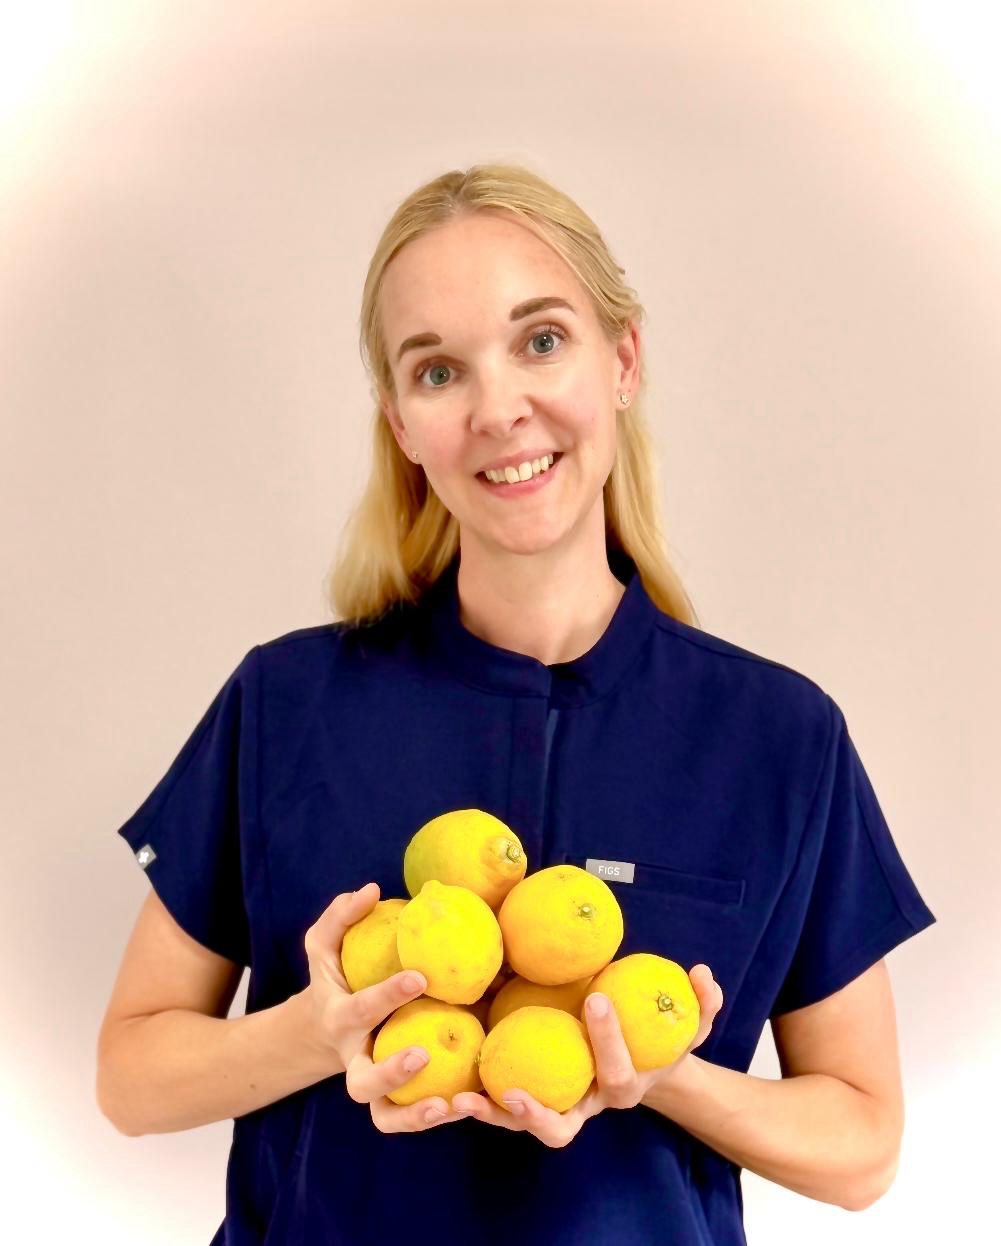
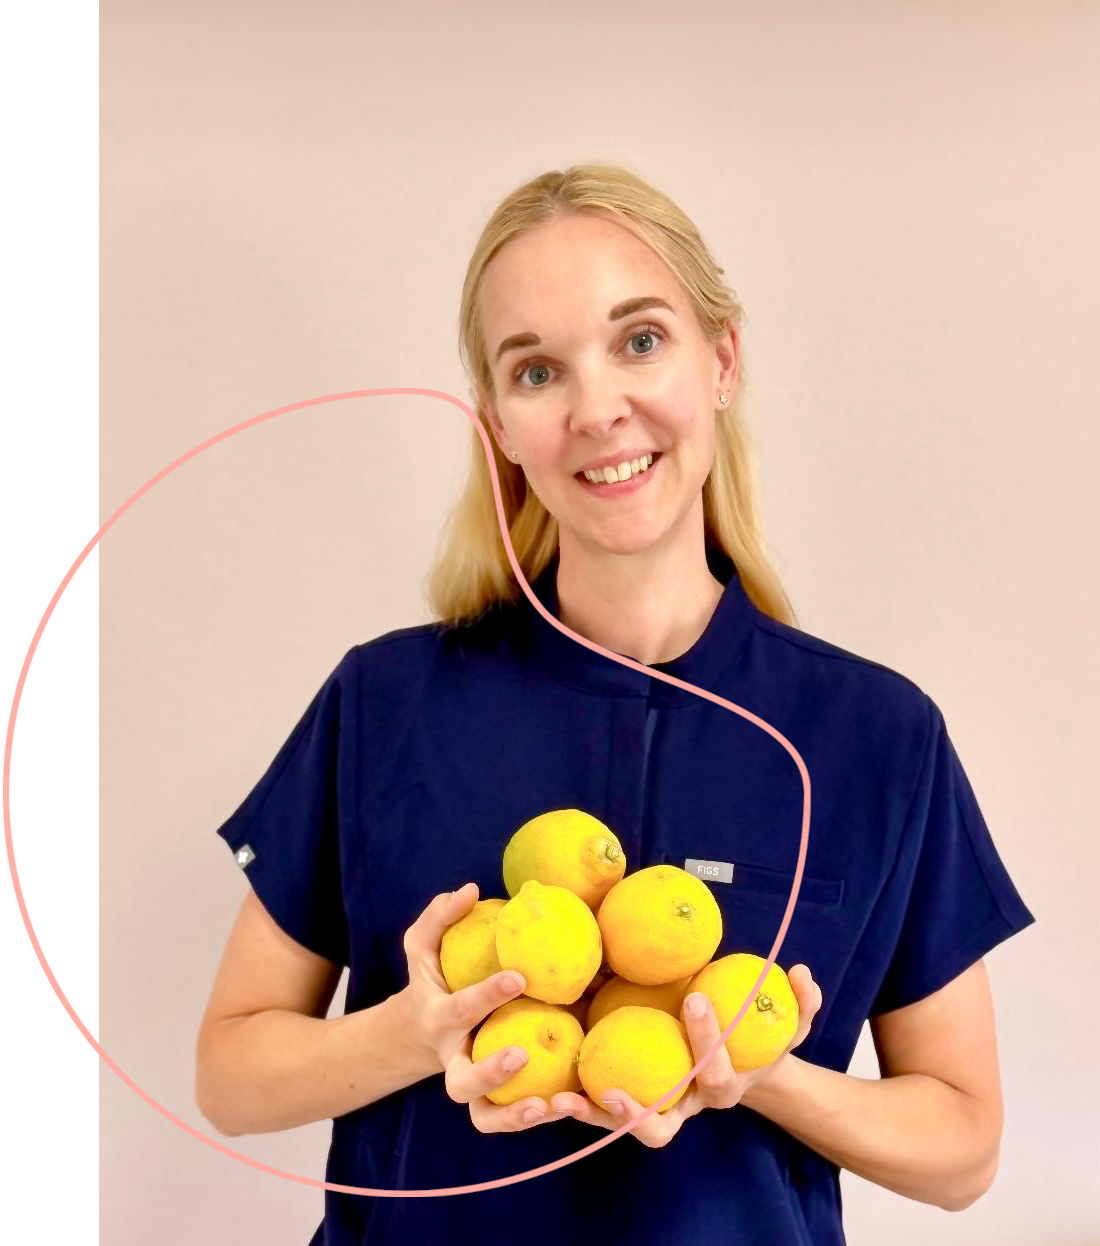
Optimize service buttons: center positioning, wider padding, and improved text

diff --git a/src/components/Services.tsx b/src/components/Services.tsx
@@ -27,15 +27,23 @@ export default function Services() {
                   />
                 </div>
               </Link>
-              <div className="service-card bg-new-cream p-8 pt-12 rounded-3xl text-center h-full flex flex-col">{}
+              <div className="service-card bg-new-cream p-8 pt-12 rounded-3xl text-center h-full flex flex-col">
                 <h3 className="text-2xl font-medium text-burgundy mb-2">Health Check</h3>
                 <p className="text-sm text-burgundy uppercase tracking-wider mb-4">
                   GANZHEITLICHE ANALYSE<br />
                   FÜR EINEN KLAREN ÜBERBLICK
                 </p>
-                <p className="body-text flex-1">
+                <p className="body-text flex-1 mb-6">
                   Mit moderner Diagnostik (BIA, EKG, HRV), einer ausführlichen Anamnese und einer umfangreichen Vitalparameter-Analyse entsteht ein persönliches Gesundheitsprofil.So können mögliche Risiken frühzeitig sichtbar werden und es entsteht eine fundierte Grundlage für ein individuelles Therapiekonzept.
                 </p>
+                <div className="text-center">
+                  <Link 
+                    href="/leistungen/health-check" 
+                    className="inline-block bg-burgundy text-white px-12 py-3 rounded-full font-medium hover:bg-opacity-90 transition-all duration-300"
+                  >
+                    Mehr Informationen
+                  </Link>
+                </div>
               </div>
             </div>
           </FadeIn>
@@ -54,16 +62,24 @@ export default function Services() {
                   />
                 </div>
               </Link>
-              <div className="service-card bg-new-cream p-8 pt-12 rounded-3xl text-center h-full flex flex-col">{}
+              <div className="service-card bg-new-cream p-8 pt-12 rounded-3xl text-center h-full flex flex-col">
                 <h3 className="text-2xl font-medium text-burgundy mb-2">Labordiagnostik</h3>
                 <p className="text-sm text-burgundy uppercase tracking-wider mb-4">
                   FUNDIERTE WERTE.<br />
                   KLARE ENTSCHEIDUNGEN.
                 </p>
-                <p className="body-text flex-1">
+                <p className="body-text flex-1 mb-6">
                   Ob umfassendes Profil oder gezielte Nährstoffanalysen: Ihre Laborwerte liefern wichtige Hinweise für eine individuelle Einschätzung und können als Grundlage für eine passende Betreuung dienen.
                 Durch die Auswahl spezifischer Parameter können Zusammenhänge sichtbar werden und individuelle Schwerpunkte berücksichtigt werden.  
                 </p>
+                <div className="text-center">
+                  <Link 
+                    href="/leistungen/labordiagnostik" 
+                    className="inline-block bg-burgundy text-white px-12 py-3 rounded-full font-medium hover:bg-opacity-90 transition-all duration-300"
+                  >
+                    Mehr Informationen
+                  </Link>
+                </div>
               </div>
             </div>
           </FadeIn>
@@ -82,17 +98,25 @@ export default function Services() {
                   />
                 </div>
               </Link>
-              <div className="service-card bg-new-cream p-8 pt-12 rounded-3xl text-center h-full flex flex-col">{}
+              <div className="service-card bg-new-cream p-8 pt-12 rounded-3xl text-center h-full flex flex-col">
                 <h3 className="text-2xl font-medium text-burgundy mb-2">Nährstofftherapie</h3>
                 <p className="text-sm text-burgundy uppercase tracking-wider mb-4">
                   GEZIELTE ENERGIE<br />
                   VON INNEN.
                 </p>
-                <p className="body-text flex-1">
+                <p className="body-text flex-1 mb-6">
                   Individuelle Nährstoffkonzepte auf Basis von Laborwerten und Ihren persönlichen Bedürfnissen.
                 Die Therapie kann dabei unterstützen, fehlende Reserven auszugleichen und das innere Gleichgewicht zu fördern.
                 Sie kann zudem einen positiven Einfluss auf Energie, Immunsystem und Regeneration haben.
                 </p>
+                <div className="text-center">
+                  <Link 
+                    href="/leistungen/naehrstofftherapie" 
+                    className="inline-block bg-burgundy text-white px-12 py-3 rounded-full font-medium hover:bg-opacity-90 transition-all duration-300"
+                  >
+                    Mehr Informationen
+                  </Link>
+                </div>
               </div>
             </div>
           </FadeIn>
@@ -111,16 +135,24 @@ export default function Services() {
                   />
                 </div>
               </Link>
-              <div className="service-card bg-new-cream p-8 pt-12 rounded-3xl text-center h-full flex flex-col">{}
+              <div className="service-card bg-new-cream p-8 pt-12 rounded-3xl text-center h-full flex flex-col">
                 <h3 className="text-2xl font-medium text-burgundy mb-2">Craniosakrale Osteopathie</h3>
                 <p className="text-sm text-burgundy uppercase tracking-wider mb-4">
                   BLOCKADEN LÖSEN.<br />
                   BALANCE FINDEN.
                 </p>
-                <p className="body-text flex-1">
+                <p className="body-text flex-1 mb-6">
                   Sanfte manuelle Techniken können dazu beitragen, Beweglichkeit zu unterstützen und das innere Gleichgewicht zu fördern.
                 Sie können hilfreich sein, um Funktionsstörungen positiv zu beeinflussen, Schmerzen zu lindern und die natürlichen Regenerationsprozesse des Körpers zu unterstützen.
                 </p>
+                <div className="text-center">
+                  <Link 
+                    href="/leistungen/craniosacrale-osteopathie" 
+                    className="inline-block bg-burgundy text-white px-12 py-3 rounded-full font-medium hover:bg-opacity-90 transition-all duration-300"
+                  >
+                    Mehr Informationen
+                  </Link>
+                </div>
               </div>
             </div>
           </FadeIn>

diff --git a/src/components/ServiceBenefits.tsx b/src/components/ServiceBenefits.tsx
@@ -18,7 +18,7 @@ export default function ServiceBenefits({ benefits, heroImage, title, benefitsIn
         {/* Mobile Layout (bis sm) - Bild direkt über Rosa ohne Padding, eckig */}
         <div className="sm:hidden">
           {/* Mobile Image - eckig, ohne Padding, volle Breite */}
-          <div className="bg-white">
+          <div className="bg-white relative">
             <div className="relative w-full aspect-[4/3]">
               <Image
                 src={heroImage}
@@ -27,6 +27,15 @@ export default function ServiceBenefits({ benefits, heroImage, title, benefitsIn
                 className="object-cover"
                 sizes="100vw"
               />
+              {/* Linie Overlay für Mobile */}
+              <div className="absolute -bottom-3 -left-3 z-10" style={{ width: '100%', height: '100%' }}>
+                <Image
+                  src="/linie_oben.webp"
+                  alt="Dekorative Linie"
+                  fill
+                  className="object-contain object-bottom-left"
+                />
+              </div>
             </div>
           </div>
           
@@ -55,7 +64,7 @@ export default function ServiceBenefits({ benefits, heroImage, title, benefitsIn
         {/* Tablet Layout (sm bis xl) - Wie Mobile: Bild über Text, volle Breite */}
         <div className="hidden sm:block xl:hidden">
           {/* Image - eckig, ohne Padding, volle Breite */}
-          <div className="bg-white">
+          <div className="bg-white relative">
             <div className="relative w-full aspect-[4/3]">
               <Image
                 src={heroImage}
@@ -64,6 +73,15 @@ export default function ServiceBenefits({ benefits, heroImage, title, benefitsIn
                 className="object-cover"
                 sizes="100vw"
               />
+              {/* Linie Overlay für Tablet */}
+              <div className="absolute -bottom-3 -left-3 z-10" style={{ width: '100%', height: '100%' }}>
+                <Image
+                  src="/linie_oben.webp"
+                  alt="Dekorative Linie"
+                  fill
+                  className="object-contain object-bottom-left"
+                />
+              </div>
             </div>
           </div>
           
@@ -103,6 +121,15 @@ export default function ServiceBenefits({ benefits, heroImage, title, benefitsIn
                   className="object-cover rounded-3xl shadow-lg"
                   sizes="50vw"
                 />
+                {/* Linie Overlay für Desktop */}
+                <div className="absolute -bottom-8 -left-10 z-40" style={{ width: '100%', height: '100%' }}>
+                  <Image
+                    src="/linie_oben.webp"
+                    alt="Dekorative Linie"
+                    fill
+                    className="object-contain object-bottom-left"
+                  />
+                </div>
               </div>
             </div>
           </div>
@@ -132,8 +159,8 @@ export default function ServiceBenefits({ benefits, heroImage, title, benefitsIn
         </div>
       </div>
       
-      {/* Bottom narrow row - cream background */}
-      <div className="bg-cream h-16 md:h-20"></div>
+      {/* Bottom narrow row - white background */}
+      <div className="bg-white h-16 md:h-20"></div>
     </section>
   );
 }

diff --git a/src/components/TreatmentSteps.tsx b/src/components/TreatmentSteps.tsx
@@ -3,7 +3,6 @@ import Image from 'next/image';
 interface TreatmentStep {
   title: string;
   description: string;
-  color: 'burgundy' | 'coral';
 }
 
 interface TreatmentStepsProps {

diff --git a/content/services/health-check.md b/content/services/health-check.md
@@ -1,31 +1,26 @@
 ---
 title: "Health Check"
-subtitle: "Ganzheitliche Analyse für einen klaren Überblick über Ihren Gesundheitszustand.<br>Mit moderner Diagnostik (BIA, EKG, HRV) und ausführlicher Anamnese<br>entwickeln wir gemeinsam die Grundlage für Ihr individuelles Therapiekonzept."
+subtitle: "Ganzheitliche Analyse für einen klaren Überblick.<br>MDer Health Check bietet die Möglichkeit, Ihre Gesundheit umfassend und präzise zu betrachten. Ziel ist es, mögliche Risikofaktoren frühzeitig zu erkennen, Ihre individuellen Stärken sichtbar zu machen und konkrete Ansätze für eine nachhaltige Gesundheitsförderung zu entwickeln.<br>Dabei fließt die Sichtweise der funktionellen Medizin mit ein: Nicht einzelne Werte stehen im Vordergrund, sondern das Erkennen von Zusammenhängen und Wechselwirkungen im gesamten Organismus.<br>So entsteht ein differenzierter Überblick über Ihre aktuelle gesundheitliche Situation, auf dessen Basis gezielt Maßnahmen eingeleitet werden können."
 heroImage: "/service_healthcheck.png"
-benefitsIntro: "Ein umfassender Health Check gibt Ihnen einen klaren Überblick über Ihren aktuellen Gesundheitszustand und bildet die Grundlage für ein individuelles Therapiekonzept."
+benefitsIntro: "Ein Health Check schafft Klarheit, Orientierung und eine fundierte Grundlage für bewusste Entscheidungen rund um Ihre Gesundheit."
 benefits:
-  - "Moderne Diagnostik mit BIA, EKG und HRV-Messung"
-  - "Ausführliche Anamnese und Vitalparameter-Analyse"
-  - "Persönliches Gesundheitsprofil als Grundlage"
-  - "Frühzeitige Erkennung möglicher Risiken"
-  - "Fundierte Basis für individuelles Therapiekonzept"
-  - "Ganzheitliche Betrachtung Ihrer Gesundheit"
+  - "Prävention: frühzeitiges Erkennen von Risikofaktoren"
+  - "Begleitung bei chronischen Belastungen"
+  - "Optimierung von Leistungsfähigkeit und Regeneration"
+  - "Erkennen von Stressbelastungen und ihren Auswirkungen auf den Körper"
+  - "Orientierungshilfe bei unspezifischen Beschwerden"
+  - "Gesundheitsbewertung im Rahmen von Vorsorge und Longevity"
 treatmentSteps:
   - title: "Ausführliche Anamnese"
-    description: "Wir besprechen Ihre Krankengeschichte, aktuelle Beschwerden und Ihre individuellen Gesundheitsziele."
-    color: "burgundy"
-  - title: "Moderne Diagnostik"
-    description: "BIA-Messung für Körperzusammensetzung, EKG und HRV-Analyse für Herzgesundheit und Stressresilienz."
-    color: "coral"
-  - title: "Vitalparameter-Check"
-    description: "Umfassende Messung wichtiger Gesundheitsparameter für ein vollständiges Bild."
-    color: "burgundy"
-  - title: "Persönliches Profil"
-    description: "Auswertung aller Ergebnisse und Erstellung Ihres individuellen Gesundheitsprofils."
-    color: "coral"
-  - title: "Therapieplanung"
-    description: "Entwicklung eines maßgeschneiderten Therapiekonzepts basierend auf Ihren Ergebnissen."
-    color: "burgundy"
+    description: "Im persönlichen Gespräch erfasse ich Ihre medizinische Vorgeschichte, aktuelle Beschwerden, Lebensstil und individuelle Risikofaktoren. Dies bildet die Grundlage für die weiteren Untersuchungen."
+  - title: "Vitalparameteranalyse & BIA-Messung"
+    description: "Es werden grundlegende Körperwerte wie z.B. Blutdruck, Puls und Sauerstoffsättigung erhoben. Die Bioimpedanzanalyse (BIA) liefert zusätzliche Informationen zu Körperzusammensetzung, Muskel- und Fettanteilen sowie zum Wasserhaushalt."
+  - title: "EKG & HRV-Messung"
+    description: "Ein Ruhe-EKG zeigt die Herzaktivität, während die Herzratenvariabilität (HRV) Rückschlüsse auf die Balance von Belastung und Erholung gibt. So werden Herz-Kreislauf- und Stressregulation sichtbar."
+  - title: "Labordiagnostik"
+    description: "Direkt vor Ort werden Blut- und Urinuntersuchungen durchgeführt: HbA1c (Langzeitzucker), Blutzucker (BZ), Lipidprofil ( Fette) und CRP (Entzündungsmarker). Die Analysen bieten einen differenzierten Einblick in Stoffwechsel, Herz-Kreislauf-System und Entzündungsaktivität."
+  - title: "Abschlussgespräch & persönliches Gesundheitsprofi   "
+    description: "Zum Abschluss werden alle Ergebnisse in Ruhe besprochen. Sie erhalten ein individuelles Gesundheitsprofil mit Empfehlungen, das als Grundlage für Prävention, Therapie oder Lifestyle-Anpassungen dient."
 seo:
   title: "Health Check - Ganzheitliche Gesundheitsanalyse | Praxis Alexandra Buchmann"
   description: "Umfassender Health Check mit moderner Diagnostik (BIA, EKG, HRV). Persönliches Gesundheitsprofil als Grundlage für individuelles Therapiekonzept."

diff --git a/content/services/naehrstofftherapie.md b/content/services/naehrstofftherapie.md
@@ -1,7 +1,7 @@
 ---
 title: "Nährstofftherapie"
 subtitle: "Die Nährstofftherapie basiert auf dem gezielten Einsatz von Vitaminen, Mineralstoffen, Spurenelementen und weiteren Mikronährstoffen. Ziel ist es, bestehende Defizite auszugleichen, den Stoffwechsel zu unterstützen und die körpereigenen Funktionen zu stabilisieren. Die Grundlage bilden Ihre Laborwerte, die Anamnese und Ihre persönliche Lebenssituation.<br><br>Jede Therapie wird individuell abgestimmt sorgfältig, fundiert und mit dem Ziel, Ihre gesundheitlichen Ressourcen zu stärken und mehr Wohlbefinden und Energie im Alltag zu ermöglichen."
-heroImage: "/service_naehrstoffe.png"
+heroImage: "/service_naehrstoffe.webp"
 benefitsIntro: "Individuell abgestimmte Nährstofftherapie kann Ihrem Körper helfen, sein volles Potential zu entfalten. Basierend auf Ihren Laborwerten und persönlichen Bedürfnissen entwickeln wir gemeinsam Ihr optimales Nährstoffkonzept."
 benefits:
   - "Vitamin- und Mineralstoffdefizite ausgleichen – gezielte Hilfe bei Nährstoffmangel"
@@ -16,13 +16,10 @@ benefits:
 treatmentSteps:
   - title: "Anamnese & Untersuchung"
     description: "Im persönlichen Gespräch erfasse ich Ihre Beschwerden, Lebensgewohnheiten und mögliche Risikofaktoren. Ergänzend können gezielte Laboranalysen durchgeführt werden, um den Nährstoffstatus präzise zu bestimmen."
-    color: "coral"
   - title: "Individuelle Therapie"
     description: "Die Nährstofftherapie erfolgt in Form von gezielt ausgewählten Präparaten, Infusionen oder Injektionen in individuellen Dosierungen, je nach Befund und individueller Notwendigkeit.<br> So werden die Mikronährstoffe dort verfügbar gemacht, wo sie am besten wirken können.<br>Sie entscheiden selber von welchem Hersteller Sie ihre Supplemente beziehen.Für die Infusionen stehen bewährte Rezepturen oder individuelle Kombinationen zur Verfügung."
-    color: "burgundy"
   - title: "Empfehlungen"
     description: "Im Anschluss bespreche ich die Ergebnisse mit Ihnen und empfehle ggf. Anpassungen von Ernährung oder Lebensstil. Dadurch kann die Therapie im Alltag optimal unterstützt werden."
-    color: "coral"
   - title: "Regelmäßige Kontrollen"
     description: "In individuell festgelegten Abständen werden Verlauf und Laborwerte überprüft. So lässt sich die Therapie gezielt anpassen, um eine nachhaltige Stabilisierung und optimale Versorgung sicherzustellen."
     color: "burgundy"

diff --git a/content/services/craniosacrale-osteopathie.md b/content/services/craniosacrale-osteopathie.md
@@ -14,13 +14,10 @@ benefits:
 treatmentSteps:
   - title: "Anamnese & Untersuchung"
     description: "Zu Beginn steht ein ausführliches Gespräch über Ihre Beschwerden und Ihre gesundheitliche Vorgeschichte. Anschließend folgt eine körperliche Untersuchung mit sanften Tests, um Beweglichkeit, Muskelspannung und mögliche Funktionsstörungen zu erfassen."
-    color: "burgundy"
   - title: "Individuelle Behandlung" 
     description: "Die Behandlung findet überwiegend im Liegen statt. Jogginghosen oder Leggings sind nicht nur erlaubt, sondern ausdrücklich empfohlen, es darf schön bequem sein.<br> Mit spezifischen, präzise ausgeführten osteopathischen Techniken wird der Körper darin unterstützt, Spannungsmuster und Blockaden zu lösen und die komplexen Steuerungs- und Regenerationsprozesse von Körper und Nervensystemwieder ins Gleichgewicht zu bringen."
-    color: "coral"
   - title: "Nachbesprechung & Empfehlungen"
     description: "Im Anschluss besprechen wir die Behandlung und das weitere Vorgehen. Bei Bedarf erhalten Sie ergänzende Empfehlungen und Übungen, die die Behandlung unterstützen und den Therapieerfolg fördern können"
-    color: "burgundy"
   - title: "Regelmäßige Folgetermine"
     description: "Je nach Befund und individueller Reaktion des Körpers sind weitere Behandlungen in Abständen von ein bis drei Wochen sinnvoll. Wiederholte Behandlungen können dazu beitragen, die erreichten Veränderungen zu stabilisieren und langfristig zu einem verbesserten Funktions- und Beschwerdebild beizutragen."
     color: "coral"

diff --git a/content/services/labordiagnostik.md b/content/services/labordiagnostik.md
@@ -12,16 +12,12 @@ benefits:
 treatmentSteps:
   - title: "Ausführliche Anamnese"
     description: "Wir nehmen uns viel Zeit für ein persönliches Gespräch. Dabei betrachten wir Ihre Beschwerden, Ihre Lebensumstände und Ihre Gesundheitsziele und ich berate Sie gerne, welche Untersuchungen sinnvoll sind."
-    color: "coral"
   - title: "Probenentnahme"
     description: "Die Blutentnahme erfolgt direkt in meiner Praxis oder unkompliziert bei einem unserer Partnerlabore. Je nach Fragestellung können auch andere Proben sinnvoll sein. Alles wird Ihnen vorab verständlich erklärt und so gestaltet, dass es für Sie unkompliziert bleibt."
-    color: "burgundy"
   - title: "Analyse im Fachlabor"
     description: "Die Proben werden in einem spezialisierten Labor ausgewertet. So entstehen zuverlässige und aussagekräftige Ergebnisse, die wertvolle Hinweise auf mögliche Ursachen Ihrer Beschwerden liefern können."
-    color: "coral"
   - title: "Besprechung der Ergebnisse"
     description: "Wir gehen die Resultate Schritt für Schritt gemeinsam durch. Sie erhalten eine klare und verständliche Erklärung, was die Werte bedeuten, wo die Zusammenhänge liegen und welche Möglichkeiten sich daraus für Ihr weiteres Vorgehen ergeben."
-    color: "burgundy"
 seo:
   title: "Labordiagnostik - Präzise Blutanalysen | Praxis Alexandra Buchmann"
   description: "Umfassende Labordiagnostik mit individueller Parameterauswahl. Von Nährstoffanalysen bis Hormondiagnostik - fundierte Werte für klare Entscheidungen."
